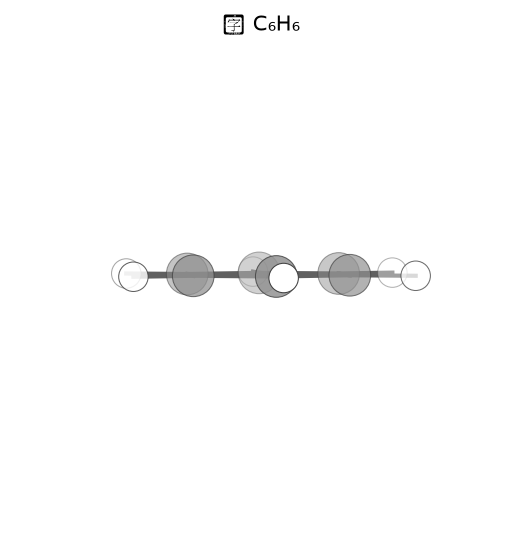
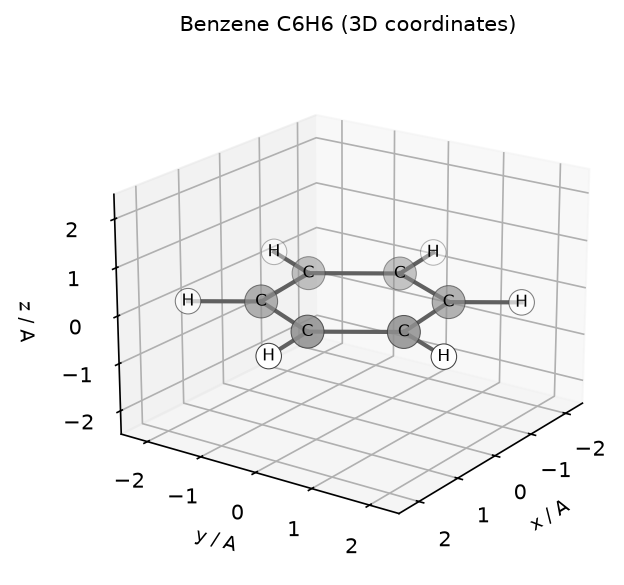
vib-freq 分子图改为带 x-y-z 坐标轴的 3D 坐标图（水用第六节教学坐标）

diff --git a/vib-freq/index.html b/vib-freq/index.html
@@ -125,7 +125,7 @@ a{color:var(--green);text-underline-offset:4px}a:hover{color:var(--copper)}main{
 <p class="source">对应：新增前置知识：连接计算流程与化学问题。依据：<a href="https://psicode.org/psi4manual/master/scf.html" target="_blank" rel="noopener noreferrer">Psi4 官方：SCF、轨道和密度矩阵</a>；<a href="https://psicode.org/psi4manual/master/dft.html" target="_blank" rel="noopener noreferrer">Psi4 官方：密度泛函与交换相关近似</a>；<a href="https://www.faccts.de/docs/orca/6.1/manual/contents/structurereactivity/frequencies.html" target="_blank" rel="noopener noreferrer">ORCA 手册：频率计算与缩放</a>。</p><div class="lesson-nav"><a href="#density-first">← 上一节：电子密度逐字读：一个位置、一个数值、一个体积</a><button class="mark-read" type="button" data-lesson="energy-first" aria-pressed="false">我已理解本节</button><a href="#structure">下一节：从 SMILES 到图、三维构象和 SDF →</a></div></div></details></section><div class="phase-intro"><span class="eyebrow">阶段 2 · 连起计算流程</span><h2>把密度算出来</h2><p>知道给程序什么，以及程序为什么反复迭代。</p></div><section id="structure" class="chapter"><details class="chapter-details"><summary><span class="chapter-number">第 06 / 24 节</span><h2>从 SMILES 到图、三维构象和 SDF</h2><p class="summary">原子和键先组成图，再用构象算法生成坐标；生成结构与求电子密度是不同步骤。</p></summary><div class="body"><div class="study-target"><p><strong>这节先弄懂：</strong>从连接关系走到三维坐标。</p><p><strong>读完能做到：</strong>能解释同一条SMILES为什么可能对应不同构象。</p></div>
 <p>分子图把原子作为节点，把化学键作为边。原子序数、形式电荷、氢数和芳香性可作为节点特征。单键、双键和芳香键等可作为边特征。二值邻接矩阵只说明是否连接，不会自动完整记录键级。</p>
 <p>以阿司匹林 <code>CC(=O)Oc1ccccc1C(=O)O</code> 为例，SMILES 默认常省略氢。RDKit 图最初有 13 个非氢节点，补显式氢后为 21 个原子。SDF 可同时保存三维坐标和键；XYZ 常见形式只列元素和坐标，读入程序可能另行推断连接。</p>
-<p style="text-align:center;margin:12px 0;"><img src="来源图片/结构示意图/aspirin.png" alt="阿司匹林分子 3D 球棍模型" style="max-width:360px;width:100%;height:auto;border:1px solid #ddd;border-radius:6px;" loading="lazy"><br><small style="color:#666;">图：阿司匹林（C₉H₈O₄）的 3D 球棍模型，红=氧、灰=碳、白=氢（RDKit 优化后构象）</small></p>
+<p style="text-align:center;margin:12px 0;"><img src="来源图片/结构示意图/aspirin.png" alt="阿司匹林分子 3D 坐标图" style="max-width:380px;width:100%;height:auto;border:1px solid #ddd;border-radius:6px;" loading="lazy"><br><small style="color:#666;">图：阿司匹林（C₉H₈O₄）在三维坐标系中的位置，红=氧、灰=碳、白=氢，x/y/z 轴单位 Å（RDKit 优化构象）</small></p>
 <p>分支 <code>CC(=O)O</code> 中，括号中的氧从第二个碳分出；括号结束，当前原子回到这个碳，后面的氧继续连接这个碳。闭环数字表示还需要补一条连接，不是原子，也不直接表示环大小。</p>
 <p>ETKDG 等构象方法生成候选三维位置，MMFF 力场可调整局部几何。它们不会自动完成 DFT 电子结构计算，也不保证找到全局最低能构象。同一个 SMILES 可以对应多个构象，研究溶液或结合状态时未必只需要最低能孤立构象。</p>
 <p>程序内部原子索引常从 0 开始，SDF 的键连接编号通常从 1 开始。将两个文件对齐前，还应核对原子顺序、氢数、质子化状态、坐标单位和立体化学；不能只因为元素数量相同就逐行相减。</p>
@@ -138,7 +138,7 @@ a{color:var(--green);text-underline-offset:4px}a:hover{color:var(--copper)}main{
 <tr><td>H</td><td>0.96</td><td>0</td><td>0</td><td>第一个氢位于 x 轴方向。</td></tr>
 <tr><td>H</td><td>−0.24</td><td>0.93</td><td>0</td><td>另一个氢在同一平面中，但不与前两个原子排成直线。</td></tr>
 </tbody></table></div>
-<p style="text-align:center;margin:12px 0;"><img src="来源图片/结构示意图/water.png" alt="水分子 H2O 3D 球棍模型" style="max-width:240px;width:100%;height:auto;border:1px solid #ddd;border-radius:6px;" loading="lazy"><br><small style="color:#666;">图：水分子 H₂O 的 3D 球棍模型，红=氧、白=氢，弯曲形约 104.5°（RDKit 优化后构象）</small></p>
+<p style="text-align:center;margin:12px 0;"><img src="来源图片/结构示意图/water.png" alt="水分子 H2O 3D 坐标图" style="max-width:320px;width:100%;height:auto;border:1px solid #ddd;border-radius:6px;" loading="lazy"><br><small style="color:#666;">图：水分子 H₂O 在三维坐标系中的位置（用上表教学坐标画出），红=氧、白=氢，x/y/z 轴单位 Å</small></p>
 <ol><li><strong>先明确组成与连接。</strong>水包含一个氧、两个氢，两个 O—H 连接。</li><li><strong>再给三维几何。</strong>上表提供九个坐标数。拉长一根 O—H 键，分子式仍是 H₂O，但已经是另一个几何。</li><li><strong>补齐电子条件。</strong>中性水设 Q=0，共十个全电子；常见基态计算采用单重态。若改为 Q=+1，则电子数变成九，电子态设置也要相应检查。</li><li><strong>选择计算近似和基组。</strong>坐标本身不会告诉程序用哪种近似求电子结构。</li><li><strong>求出电子结构，再导出所需结果。</strong>这一阶段才得到轨道、密度矩阵、空间密度和有关性质。</li></ol>
 <p>如果把整个孤立水分子平移或旋转，原子间距离没有改变；在不加外场等条件下，它仍是同一个物理几何，只是坐标表示变了。电子密度图也应跟着分子一起移动或旋转。相反，单独移动一个氢会改变内部几何，不能把它仅当作换了坐标系。</p>
 <details><summary>停一下：有一个能解析的 SMILES，就已经有唯一的三维密度了吗？</summary><p>没有。SMILES 主要说明连接等结构信息；仍要选择构象，指定电荷与电子态，选计算方法并求解。即使字符串相同，不同构象、质子化状态或环境也可能对应不同密度。</p></details>
@@ -152,9 +152,9 @@ a{color:var(--green);text-underline-offset:4px}a:hover{color:var(--copper)}main{
 <p><code>Cl</code> 是氯元素，第二个字母必须小写；<code>[Co]</code> 是钴，<code>CO</code> 是两个原子相连且通常表示甲醇。把整个字符串统一转大写或小写会破坏含义。乙醇中的两个碳也不是完全等价：一个靠近氧，一个靠近甲基端，电荷和化学环境通常不同，但仍都可以写成大写 C。</p>
 <div class="table-wrap"><table><thead><tr><th>输入 SMILES</th><th>能解析</th><th>规范形式</th><th>分子式</th><th>芳香碳数</th></tr></thead><tbody><tr><td>CCO</td><td>是</td><td>CCO</td><td>C2H6O</td><td>0</td></tr><tr><td>OCC</td><td>是</td><td>CCO</td><td>C2H6O</td><td>0</td></tr><tr><td>cco</td><td>否</td><td>—</td><td>—</td><td>—</td></tr><tr><td>c1ccccc1</td><td>是</td><td>c1ccccc1</td><td>C6H6</td><td>6</td></tr><tr><td>C1=CC=CC=C1</td><td>是</td><td>c1ccccc1</td><td>C6H6</td><td>6</td></tr><tr><td>C1CCCCC1</td><td>是</td><td>C1CCCCC1</td><td>C6H12</td><td>0</td></tr><tr><td>Cl</td><td>是</td><td>Cl</td><td>HCl</td><td>0</td></tr><tr><td>[Co]</td><td>是</td><td>[Co]</td><td>Co</td><td>0</td></tr><tr><td>CO</td><td>是</td><td>CO</td><td>CH4O</td><td>0</td></tr><tr><td>CC(=O)Oc1ccccc1C(=O)O</td><td>是</td><td>CC(=O)Oc1ccccc1C(=O)O</td><td>C9H8O4</td><td>6</td></tr></tbody></table></div>
 <p style="text-align:center;margin:12px 0;display:flex;gap:16px;justify-content:center;flex-wrap:wrap;">
-<img src="来源图片/结构示意图/ethanol.png" alt="乙醇 CCO 3D 球棍模型" style="max-width:280px;width:100%;height:auto;border:1px solid #ddd;border-radius:6px;" loading="lazy">
-<img src="来源图片/结构示意图/benzene.png" alt="苯 c1ccccc1 3D 球棍模型" style="max-width:280px;width:100%;height:auto;border:1px solid #ddd;border-radius:6px;" loading="lazy">
-<br><small style="color:#666;width:100%;">左：乙醇 CCO（链状，无芳香环）；右：苯 c1ccccc1（六元芳香环）。均为 RDKit 优化后 3D 构象，灰=碳、红=氧、白=氢。</small></p>
+<img src="来源图片/结构示意图/ethanol.png" alt="乙醇 CCO 3D 坐标图" style="max-width:300px;width:100%;height:auto;border:1px solid #ddd;border-radius:6px;" loading="lazy">
+<img src="来源图片/结构示意图/benzene.png" alt="苯 c1ccccc1 3D 坐标图" style="max-width:300px;width:100%;height:auto;border:1px solid #ddd;border-radius:6px;" loading="lazy">
+<br><small style="color:#666;width:100%;">左：乙醇 CCO；右：苯 c1ccccc1。均在三维坐标系中画出，灰=碳、红=氧、白=氢，x/y/z 轴单位 Å（RDKit 优化构象）。</small></p>
 <p>以上表格由本次 RDKit 2024.03.4 实际解析得到。解析通过代表符合该工具的结构规则，不代表模型预测正确或反应已经验证。对比模型输出时，需要保留大小写，规范化还要说明芳香性、立体化学、盐和互变异构体策略。</p>
 <p class="source">对应：旧 PPT 15—17；组会 PPT 8—10。依据：<a href="https://www.daylight.com/dayhtml/doc/theory/theory.smiles.html" target="_blank" rel="noopener noreferrer">Daylight：SMILES 原始规则</a>；<a href="https://www.rdkit.org/docs/GettingStartedInPython.html" target="_blank" rel="noopener noreferrer">RDKit 官方入门：解析与三维构象</a>。</p><div class="lesson-nav"><a href="#structure">← 上一节：从 SMILES 到图、三维构象和 SDF</a><button class="mark-read" type="button" data-lesson="case" aria-pressed="false">我已理解本节</button><a href="#methods">下一节：泛函、基组与软件：三个层次 →</a></div></div></details></section><section id="methods" class="chapter"><details class="chapter-details"><summary><span class="chapter-number">第 08 / 24 节</span><h2>泛函、基组与软件：三个层次</h2><p class="summary">泛函近似电子交换关联，基组表示轨道，软件执行计算；三者不能互相替代。</p></summary><div class="body"><div class="study-target"><p><strong>这节先弄懂：</strong>把软件、基组、泛函放到不同位置。</p><p><strong>读完能做到：</strong>看到B3LYP/def2-SVP时，知道哪些是近似，哪些是表示方式。</p></div>
 <p>可以把泛函理解为“计算交换关联能的近似规则”，把基组理解为“拼出轨道所用的数学积木”。PBE、B3LYP、PBE0、M06-2X、ωB97X-D 是不同选择；STO-3G、6-31G*、def2-SVP、def2-TZVP、cc-pVDZ 是不同基组家族或成员。</p>
@@ -341,7 +341,7 @@ a{color:var(--green);text-underline-offset:4px}a:hover{color:var(--copper)}main{
 <p>“页面放不下”能解释没有逐个展示全部样本，不能解释为什么完全不提供总体评价或排除规则。“这 15 个最有代表性”也需要先定义代表性标准，不能看完结果后再倒推理由。</p>
 <p>在当前材料里，没有发现可证实“作者只用了 15 个测试样本”的实验表。若另有未提供的结果页，应先核对总测试量、任务、单位、筛选规则、失败记录和指标分母，再回答原因，不替作者编动机。</p>
 <p class="source">对应：旧 PPT 4—5；组会 PPT 4—7、17—24。依据：<a href="https://www.nature.com/articles/sdata201422.pdf" target="_blank" rel="noopener noreferrer">QM9 原论文：文件格式与性质表</a>；<a href="https://arxiv.org/abs/2107.00367" target="_blank" rel="noopener noreferrer">QMugs 作者论文</a>。</p><div class="lesson-nav"><a href="#qm9fields">← 上一节：QM9 的“15 项”到底指什么</a><button class="mark-read" type="button" data-lesson="numbers" aria-pressed="false">我已理解本节</button><a href="#paper-roadmap">下一节：读论文前，先问密度在输入侧还是输出侧 →</a></div></div></details></section><section id="paper-roadmap" class="chapter"><details class="chapter-details"><summary><span class="chapter-number">第 19 / 24 节</span><h2>读论文前，先问密度在输入侧还是输出侧</h2><p class="summary">用你负责的9篇论文，把抽象流程变成具体研究任务。</p></summary><div class="body"><div class="study-target"><p><strong>这节先弄懂：</strong>把这套知识对应到你负责的9篇论文。</p><p><strong>读完能做到：</strong>对任一论文能画出“输入 → 模型 → 输出”，再说证据支持什么任务。</p></div><p>学到这里，你已经能看懂“从结构算密度”的流程。论文可能把机器学习放在流程的不同位置，所以不能见到“电子密度”四个字就当作同一个任务。先找输入、输出和作者实际验证的结果。</p><div class="table-wrap"><table><thead><tr><th>研究路线</th><th>你的文献例子</th><th>用普通话解释</th><th>返回原文证据</th></tr></thead><tbody><tr><td>原子结构 → 电子密度</td><td>ELECTRA（N21）、GPWNO（L03）、SA-GPR（L25）</td><td>拿原子位置和元素等信息，预测空间电子分布。密度是要预测的结果。</td><td><a href="../../01_论文阅读成果/阅读人2_论文整理/阅读人2_逐篇总结与原文证据.html#N21">查看论文总结</a></td></tr><tr><td>外势表示 → 密度 → 能量</td><td>ML-HK（L23）</td><td>把核电荷和核位置变成外势代理，先学密度，再学能量。</td><td><a href="../../01_论文阅读成果/阅读人2_论文整理/阅读人2_逐篇总结与原文证据.html#L23">查看论文总结</a></td></tr><tr><td>当前密度 → 交换相关能</td><td>EG-XC（N03）</td><td>模型嵌在DFT的SCF计算里，学习难以精确写出的能量部分。</td><td><a href="../../01_论文阅读成果/阅读人2_论文整理/阅读人2_逐篇总结与原文证据.html#N03">查看论文总结</a></td></tr><tr><td>密度图像 → 材料性质</td><td>VisionED（N17）</td><td>密度/静电势先成为图像，再用图像模型预测光伏、光物理等性质。这里密度在输入侧。</td><td><a href="../../01_论文阅读成果/阅读人2_论文整理/阅读人2_逐篇总结与原文证据.html#N17">查看论文总结</a></td></tr><tr><td>口袋密度 → 配体密度 → 分子</td><td>2022年口袋分子生成（L11）</td><td>先给口袋，生成适配的配体密度，再尝试把密度解释为化学结构。</td><td><a href="../../01_论文阅读成果/阅读人2_论文整理/阅读人2_逐篇总结与原文证据.html#L11">查看论文总结</a></td></tr><tr><td>结构 → 量子计算或训练数据</td><td>xTB综述（N08）、∇²DFT（N04）</td><td>前者介绍快速计算方法族；后者提供数据和模型基准。两者都不能硬套成一个新神经网络。</td><td><a href="../../01_论文阅读成果/阅读人2_论文整理/阅读人2_逐篇总结与原文证据.html#N04">查看论文总结</a></td></tr></tbody></table></div><h3>把一篇论文翻译成三句话</h3><ol class="steps"><li><strong>作者手里有什么？</strong>比如“元素+坐标”，或“已经算好的6张密度图”。</li><li><strong>模型负责补哪一步？</strong>是预测密度、压缩密度表示、学习能量泛函，还是根据密度生成分子？</li><li><strong>最后验了什么？</strong>密度误差小、SCF迭代少、性质预测准和生物实验有效，是不同证据。</li></ol><div class="worked-example"><h3>例：对比ELECTRA与VisionED</h3><p>ELECTRA像“从位置表画电子地图”：结构进入，密度出来。VisionED像“拿地图判断材料性质”：图像进入，性质出来。同样都谈密度，任务方向却不同。前者不自动证明能设计好药，后者也不是从坐标重新解一次DFT。</p></div><details class="checkpoint"><summary>理解检查：论文给了密度图，就证明模型能预测药效吗？</summary><p>不能。要看输出目标、测试任务与证据。密度可提供电子结构信息；药效还受结合、溶剂、细胞及体内过程影响。作者只测了密度误差时，就只按这项证据理解。</p></details><p class="source">本节与已整理的9篇正式论文证据对应，点击表内链接可回看摘要、方法和原文标注。没有为这里的新例子宣称新增实验。</p><p class="source">对应：补充导读；对应阅读人2第10–18篇论文。</p><div class="lesson-nav"><a href="#numbers">← 上一节：最容易混淆的数字与测试展示</a><button class="mark-read" type="button" data-lesson="paper-roadmap" aria-pressed="false">我已理解本节</button><a href="#modecount">下一节：为什么甲烷有 9 个振动频率，8 或 10 行不行 →</a></div></div></details></section><div class="phase-intro"><span class="eyebrow">阶段 5 · 延伸阅读</span><h2>再补振动与光谱</h2><p>理解电子计算为什么还能得到力、振动模式和频率。</p></div><section id="modecount" class="chapter"><details class="chapter-details"><summary><span class="chapter-number">第 20 / 24 节</span><h2>为什么甲烷有 9 个振动频率，8 或 10 行不行</h2><p class="summary">自由的非线性 N 原子分子有 3N−6 个振动模式，线性分子是 3N−5；N 包括氢。</p></summary><div class="body"><div class="study-target"><p><strong>这节先弄懂：</strong>从原子运动自由度理解振动模式数。</p><p><strong>读完能做到：</strong>能算水、甲烷、CO₂的模式数，并说明不同几何为什么不同。</p></div>
-<p style="text-align:center;margin:12px 0;"><img src="来源图片/结构示意图/methane.png" alt="甲烷 CH4 3D 球棍模型" style="max-width:240px;width:100%;height:auto;border:1px solid #ddd;border-radius:6px;" loading="lazy"><br><small style="color:#666;">图：甲烷 CH₄ 的 3D 球棍模型，1 个碳（灰）+ 4 个氢（白），共 5 个原子。四面体是真实的三维空间结构（RDKit 优化后构象）。</small></p>
+<p style="text-align:center;margin:12px 0;"><img src="来源图片/结构示意图/methane.png" alt="甲烷 CH4 3D 坐标图" style="max-width:300px;width:100%;height:auto;border:1px solid #ddd;border-radius:6px;" loading="lazy"><br><small style="color:#666;">图：甲烷 CH₄ 在三维坐标系中的位置，1 个碳（灰）+ 4 个氢（白），共 5 个原子。x/y/z 轴单位 Å（RDKit 优化构象）。</small></p>
 <p>每个原子能沿 x、y、z 三个方向移动，N 个原子一共 3N 个坐标自由度。其中整个分子一起平移占 3 个自由度。非线性分子整体转动再占 3 个，剩下的是内部振动。甲烷 5 个原子，因此 15−3−3=9。</p>
 <div class="formula">非线性自由分子：N<sub>vib</sub>=3N−6<br>线性自由分子：N<sub>vib</sub>=3N−5<br>CH₄：3×5−6=9；H₂O：3×3−6=3；CO₂：3×3−5=4</div>
 <p>线性分子只有两个独立整体转动自由度。以上规则针对通常的孤立、无约束分子谐振分析；固定部分原子、周期晶体声子、吸附体系或只输出部分频率时，需要重新说明自由度。单原子体系没有分子内部振动，不能机械代入得到负数。</p>
